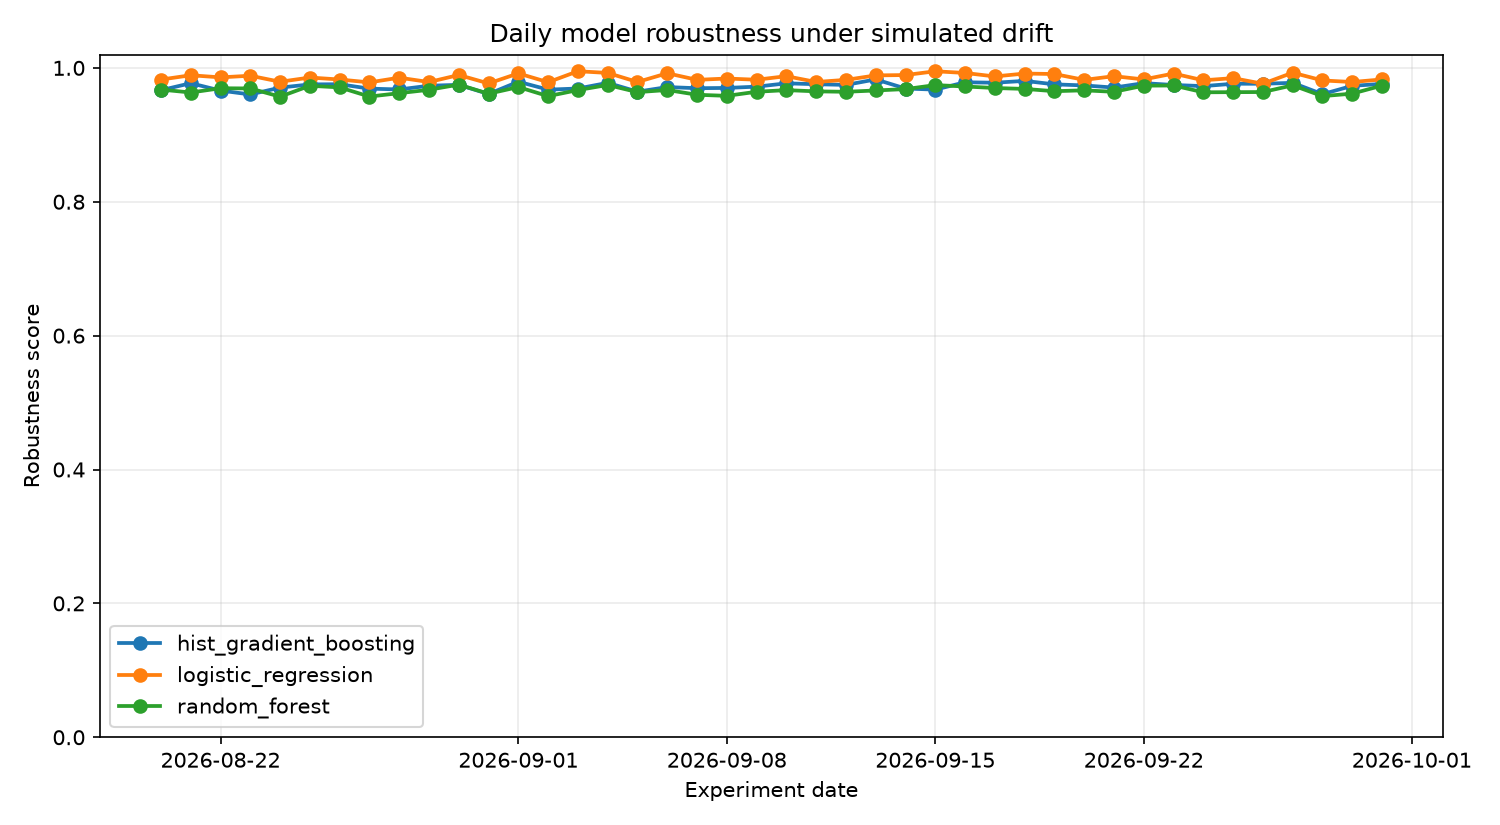
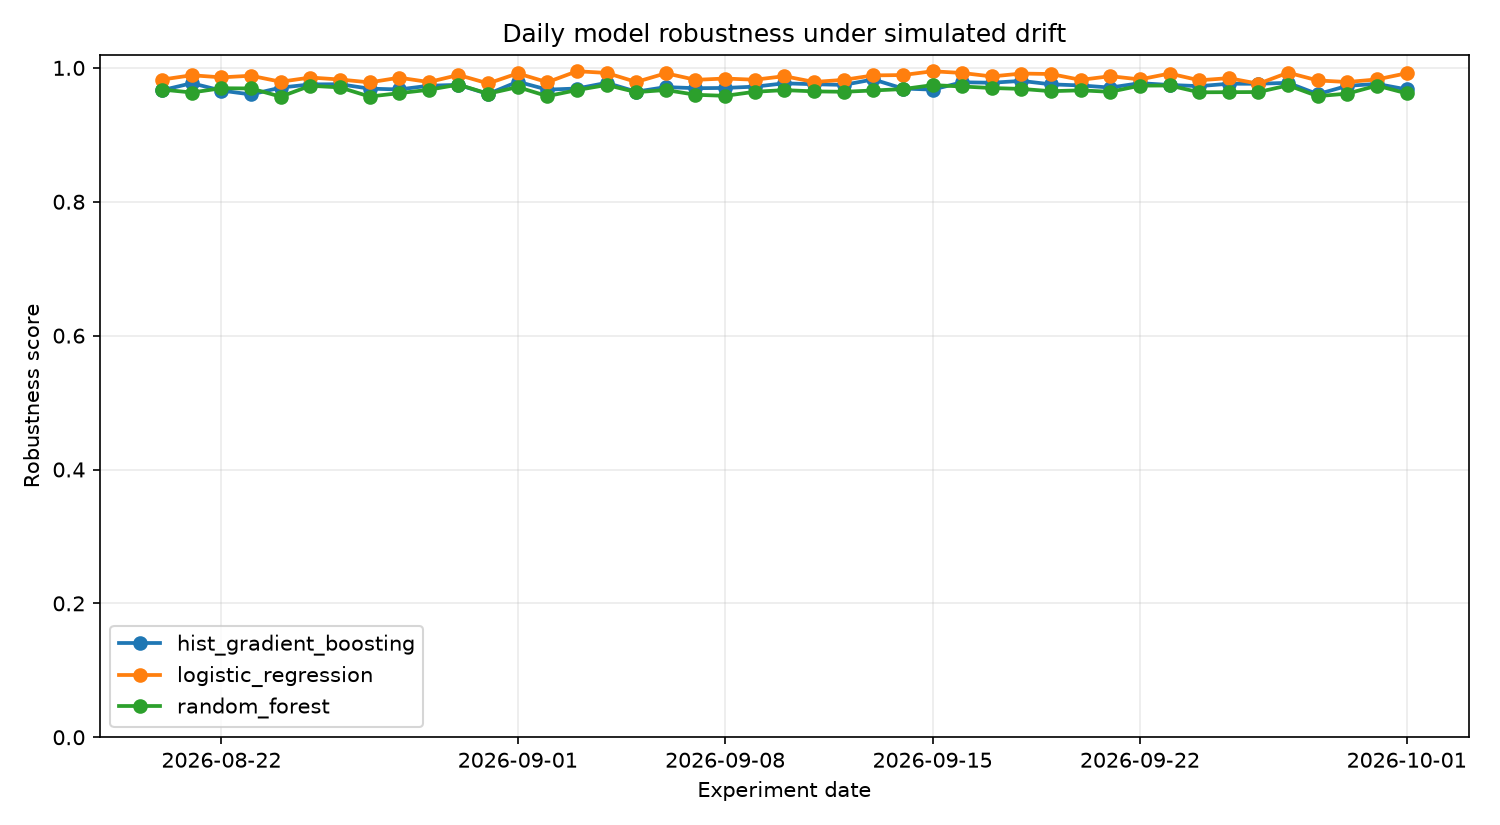
chore(observatory): daily drift benchmark 2026-10-01

diff --git a/reports/latest.md b/reports/latest.md
@@ -1,37 +1,37 @@
 # Latest DriftWatch Report
 
-**Experiment date:** 2026-09-30
+**Experiment date:** 2026-10-01
 
 ## Drift scenario
 
-- Drift strength: `0.420`
-- Scale factor: `0.958`
-- Noise ratio: `0.075`
-- Mask ratio: `0.020`
-- Affected features: mean radius, mean texture, mean area, mean concave points, mean symmetry, worst smoothness, worst symmetry
+- Drift strength: `0.366`
+- Scale factor: `0.963`
+- Noise ratio: `0.069`
+- Mask ratio: `0.018`
+- Affected features: mean radius, mean symmetry, worst radius, worst area, worst compactness, worst concavity, worst concave points
 
 ## Model ranking
 
 | Rank | Model | Robustness | ROC-AUC | F1 | Balanced Acc. | Log Loss | Brier |
 |---:|---|---:|---:|---:|---:|---:|---:|
-| 1 | `logistic_regression` | 0.9828 | 0.9984 | 0.9772 | 0.9609 | 0.0689 | 0.0193 |
-| 2 | `hist_gradient_boosting` | 0.9761 | 0.9917 | 0.9725 | 0.9563 | 0.1497 | 0.0360 |
-| 3 | `random_forest` | 0.9735 | 0.9926 | 0.9680 | 0.9485 | 0.1307 | 0.0357 |
+| 1 | `logistic_regression` | 0.9920 | 0.9991 | 0.9907 | 0.9844 | 0.0631 | 0.0175 |
+| 2 | `hist_gradient_boosting` | 0.9678 | 0.9966 | 0.9596 | 0.9297 | 0.1695 | 0.0466 |
+| 3 | `random_forest` | 0.9619 | 0.9939 | 0.9507 | 0.9172 | 0.1447 | 0.0426 |
 
 ## Highest feature drift (PSI)
 
 | Feature | PSI |
 |---|---:|
-| worst symmetry | 0.3359 |
-| mean concave points | 0.3010 |
-| mean radius | 0.2559 |
-| mean area | 0.2092 |
-| mean texture | 0.2002 |
-| worst concavity | 0.1741 |
-| mean symmetry | 0.1445 |
-| texture error | 0.1378 |
+| worst area | 0.3391 |
+| worst concave points | 0.2641 |
+| worst concavity | 0.2246 |
+| worst radius | 0.1767 |
+| worst compactness | 0.1669 |
+| mean concave points | 0.1609 |
+| perimeter error | 0.1598 |
+| mean radius | 0.1456 |
 
-**Mean PSI:** `0.1184`  
-**Max PSI:** `0.3359`
+**Mean PSI:** `0.1088`  
+**Max PSI:** `0.3391`
 
 _Generated automatically by the DriftWatch daily observatory pipeline._
